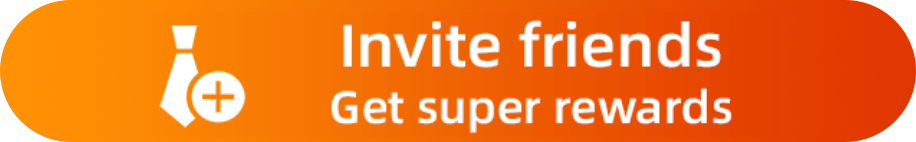
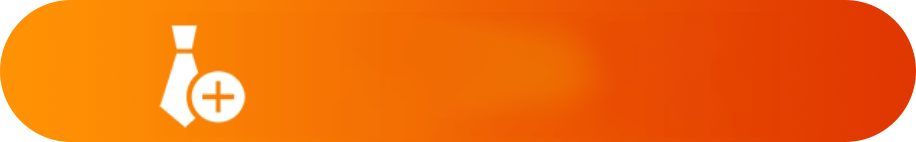
语言切换,图片语言用背景图加文字

Changed region(s): [[0.3668, 0.1408, 0.7948, 0.4789], [0.3362, 0.6197, 0.8253, 0.9296]]

diff --git a/src/views/My.vue b/src/views/My.vue
@@ -5,9 +5,20 @@
     <!-- List component  -->
     <List :listdatas="lists" :openDialog="openDialog" style="margin-top: 5px" />
     <div class="other">
-      <div @click="makeMoney"><img src="../assets/btn-money.png" /></div>
-      <div @click="customerService"><img src="../assets/btn-service.png" /></div>
-      <div @click="inviteFriends"><img src="../assets/btn-friend.png" /></div>
+      <div @click="makeMoney">
+        <span class="myBtnText">{{ lang.locale.howMakeMoney }}</span>
+        <img src="../assets/btn-money.png" />
+      </div>
+      <div @click="customerService">
+        <span class="myBtnText">{{ lang.locale.cutomerService }}</span>
+        <img src="../assets/btn-service.png" />
+      </div>
+      <div @click="inviteFriends">
+        <span class="myBtnText invite"
+          >{{ lang.locale.inviteFriends }}<em>{{ lang.locale.superRewards }}</em></span
+        >
+        <img src="../assets/btn-friend.png" />
+      </div>
     </div>
     <div class="blank"></div>
     <Dialog v-if="show" :content="content" :onOk="onOk" :onCancel="onCancel" title="tip" :hasHead="false" />
@@ -163,6 +174,28 @@ export default {
 .other > div {
   text-align: center;
   height: 18vw;
+  position: relative;
+}
+.other > div .myBtnText {
+  position: absolute;
+  left: 0;
+  top: 0;
+  width: 100%;
+  text-align: left;
+  color: #fff;
+  font-size: 21px;
+  padding: 12px 0 0 105px;
+}
+.other > div .myBtnText em {
+  display: block;
+  font-size: 16px;
+}
+.other > div .myBtnText.invite {
+  padding-top: 0;
+  padding-left: 112px;
+}
+.other > div .myBtnText.invite em {
+  margin-top: -5px;
 }
 .my-title {
   position: fixed;

diff --git a/src/views/Home.vue b/src/views/Home.vue
@@ -7,6 +7,7 @@
     <Marquee />
     <ProductList :goods="goods" />
     <div class="OrderRecord" @click="goOrder">
+      <span class="orderRecord-text"> {{ lang.locale.orderRecord }}</span>
       <img src="../assets/shuadan_dt_btn_order.png" />
     </div>
     <!-- <div class="endText">No other new types of products</div> -->
@@ -33,6 +34,7 @@ export default {
     Marquee,
     Loading
   },
+  inject: ['lang'],
   setup() {
     const isLoad = ref(false); // 设置isLoad=true响应
     const goods = ref([]);
@@ -73,6 +75,17 @@ export default {
   margin-top: 5%;
   height: 50px;
   text-align: center;
+  position: relative;
+}
+.OrderRecord .orderRecord-text {
+  position: absolute;
+  z-index: 2;
+  width: 100%;
+  height: 100%;
+  color: #fff;
+  font-size: 23px;
+  font-weight: bold;
+  padding: 10px 0 0 35px;
 }
 .endText {
   margin-top: 5%;

diff --git a/src/locales/PT.js b/src/locales/PT.js
@@ -91,6 +91,11 @@ const I18N_CONF = {
   provinceEmpty: 'Província não Pode ESTAR vazia',
   bankunameEmpty: 'O Nome do SEU Banco não Pode ESTAR vazio',
   bankEmpty: 'Banco não Pode ESTAR vazio',
+  // img text
+  loginTip: 'Faça dinheiro a partir de SUA APP',
+  howMakeMoney: 'Como fazer dinheiro',
+  cutomerService: 'Serviço Ao cliente',
+  superRewards: 'Obter super Recompensas',
   // other
   noData: 'Não. Dados',
   totalRevenue: 'Total Receitas',

diff --git a/src/locales/SP.js b/src/locales/SP.js
@@ -91,6 +91,11 @@ const I18N_CONF = {
   provinceEmpty: 'Provincias No puede estar vacío',
   bankunameEmpty: 'Tuyo Banco Nombre No puede estar vacío',
   bankEmpty: 'Banco No puede estar vacío',
+  // img text
+  loginTip: 'Ganar dinero con aplicaciones',
+  howMakeMoney: 'Cómo ganar dinero',
+  cutomerService: 'Servicio al cliente',
+  superRewards: 'Ganar premios de valor',
   // other
   noData: 'No hay datos!',
   totalRevenue: 'Total Ingresos',

diff --git a/src/locales/en-US.js b/src/locales/en-US.js
@@ -91,6 +91,11 @@ const I18N_CONF = {
   provinceEmpty: 'province cannot be empty',
   bankunameEmpty: 'your bank name cannot be empty',
   bankEmpty: 'bank cannot be empty',
+  // img text
+  loginTip: 'Make Money From Your APP',
+  howMakeMoney: 'How to make money',
+  cutomerService: 'Customer service',
+  superRewards: 'Get super rewards',
   // other
   noData: 'No Data!',
   totalRevenue: 'Total revenue',

diff --git a/src/assets/scss/common.scss b/src/assets/scss/common.scss
@@ -220,6 +220,16 @@ h3 {
 .login-head{
   text-align: center;
   background-color: #5294AA;
+  position: relative;
+}
+.login-head .login-tip{
+  color: #fff;
+  position: absolute;
+  bottom: 52px;
+  font-size: 18px;
+  white-space: nowrap;
+  left: 50%;
+  transform: translate( -50%, 0);
 }
 
 .app {

diff --git a/src/views/Login.vue b/src/views/Login.vue
@@ -1,6 +1,7 @@
 <template class="login">
   <div class="login">
     <div class="login-head">
+      <span class="login-tip">{{ lang.locale.loginTip }}</span>
       <img src="../assets/login-top.png" />
     </div>
     <div class="login-bd">
